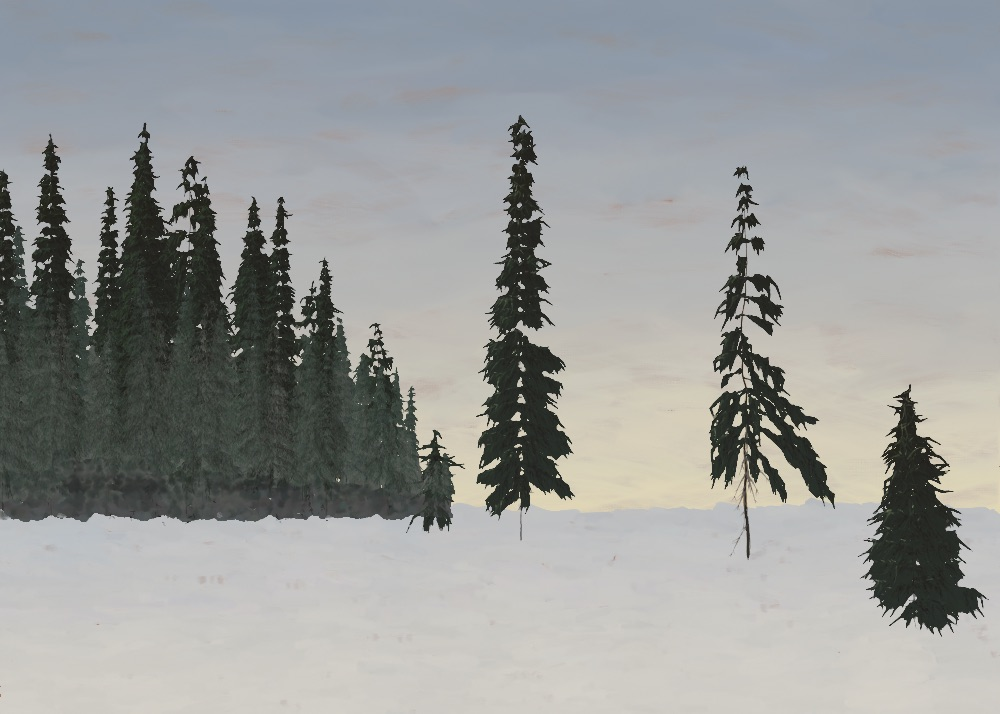
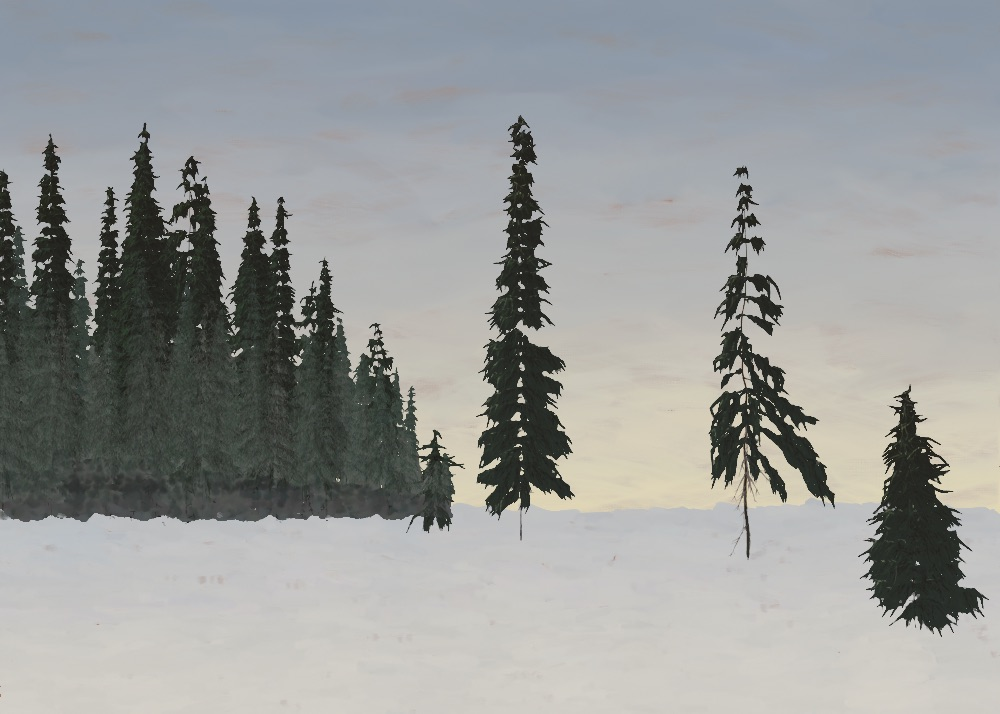
firs study + README: continuous hatch angle across the stem (no seam); clippy

Changed region(s): [[0.744, 0.6471, 0.775, 0.6779]]

diff --git a/crates/paint/src/fir.rs b/crates/paint/src/fir.rs
@@ -268,7 +268,7 @@ fn spans(poly: &[(f32, f32)], y: f32) -> Vec<(f32, f32)> {
         }
     }
     xs.sort_by(f32::total_cmp);
-    xs.chunks_exact(2).map(|c| (c[0], c[1])).collect()
+    xs.as_chunks::<2>().0.iter().map(|c| (c[0], c[1])).collect()
 }
 
 /// The span at `y` holding `x` (or the nearest one).
@@ -696,7 +696,7 @@ pub fn envelope_for(habit: &str, apex: (f32, f32), base: f32, halfw: f32, seed: 
     let mut left = side(-1.0, &mut rng);
     left.reverse();
     let mut pts = right;
-    pts.extend(left.into_iter().skip(0));
+    pts.extend(left);
     pts.pop(); // the apex again
     pts
 }

diff --git a/crates/easel/README.md b/crates/easel/README.md
@@ -514,7 +514,8 @@ print(f)   -- fir(spire, 428 tall, 168 boughs (6 dead, 11 broken), 986 strokes, 
 local nd = f:needles()
 -- 1. a dark hatched body under everything, clipped to the needle mask (its edge is the strokes' fringe)
 work(nd, {hand="hatch", tool="round 1.8", length={3, 7}, coverage=2.6, clip=nd,
-  angle=function(x, y) return 1.57 + (x < f.foot[1] and 0.5 or -0.5) end, color="#1f2924"})
+  angle=function(x, y) return 1.57 + 0.5 * clamp((f.foot[1] - x) / 12, -1, 1) end, color="#1f2924"})
+-- (a continuous angle: one that flips at the stem leaves a seam of thin cover there)
 -- 2. the stem and boughs with a rigger (dead ones gray)
 local rb = brush("rigger", 1.2)
 for i, b in ipairs(f.boughs) do
